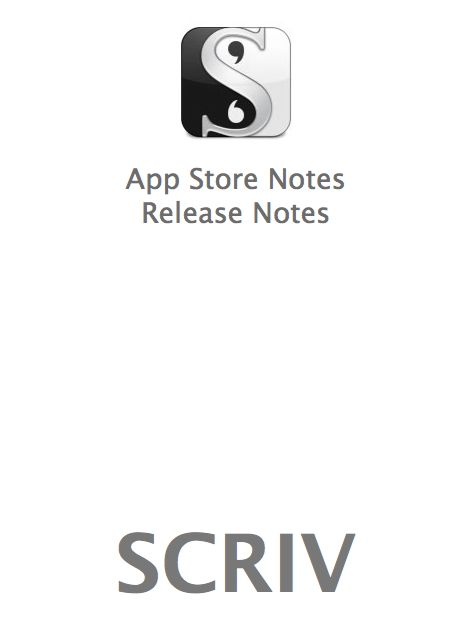
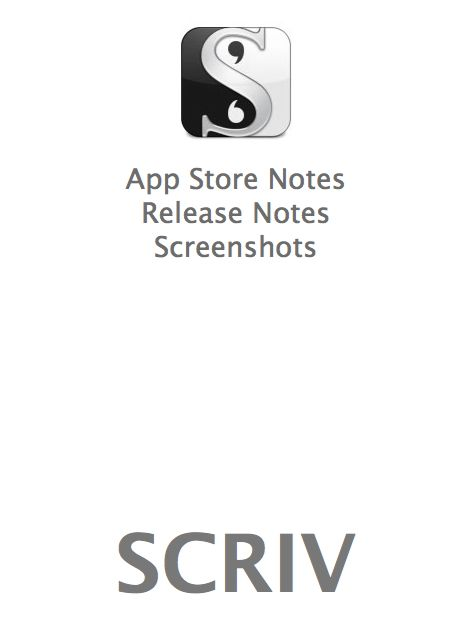
Update Scriv notes.

Changed region(s): [[0.3263, 0.3625, 0.6822, 0.4229]]

diff --git a/SkronkMini/Design/SkronkMini.scriv/QuickLook/Preview.html b/SkronkMini/Design/SkronkMini.scriv/QuickLook/Preview.html
@@ -28,10 +28,30 @@
 
 <ul>
 <li>
-<p class="binderItem"><strong>App Store Notes</strong></p>
+<p class="binderItem"><strong>App Store Notes</strong><br/>Mac App Store Info:<br/>
+<br/>
+Bundle Id: com.fourfringe.Skronk.SkronkMini<br/>
+App Id: B62E77E9R3.com.fourfringe.SkronkMini<br/>
+<br/>
+JAMF 15” Laptop UDID: 6B977EFC-886F-58BD-8B55-8771CB25329A<br/>
+<br/>
+Sign installer with Mac Submission Certificate “Mac Installer”<br/>
+Set the Code Signing Identity build setting to “3rd Party Mac Developer Application”<br/>
+<br/>
+To test the final install package:<br/>
+sudo installer -store -pkg path-to-package -target /<br/>
+<br/>
+<br/>
+</p>
 </li>
 <li>
 <p class="binderItem"><strong>Release Notes</strong></p>
+</li>
+<li>
+<p class="binderItem"><strong>Screenshots</strong><br/>Initial concrete:<br/>
+<br/>
+After concrete background resize:<br/>
+</p>
 </li>
 </ul>
 
